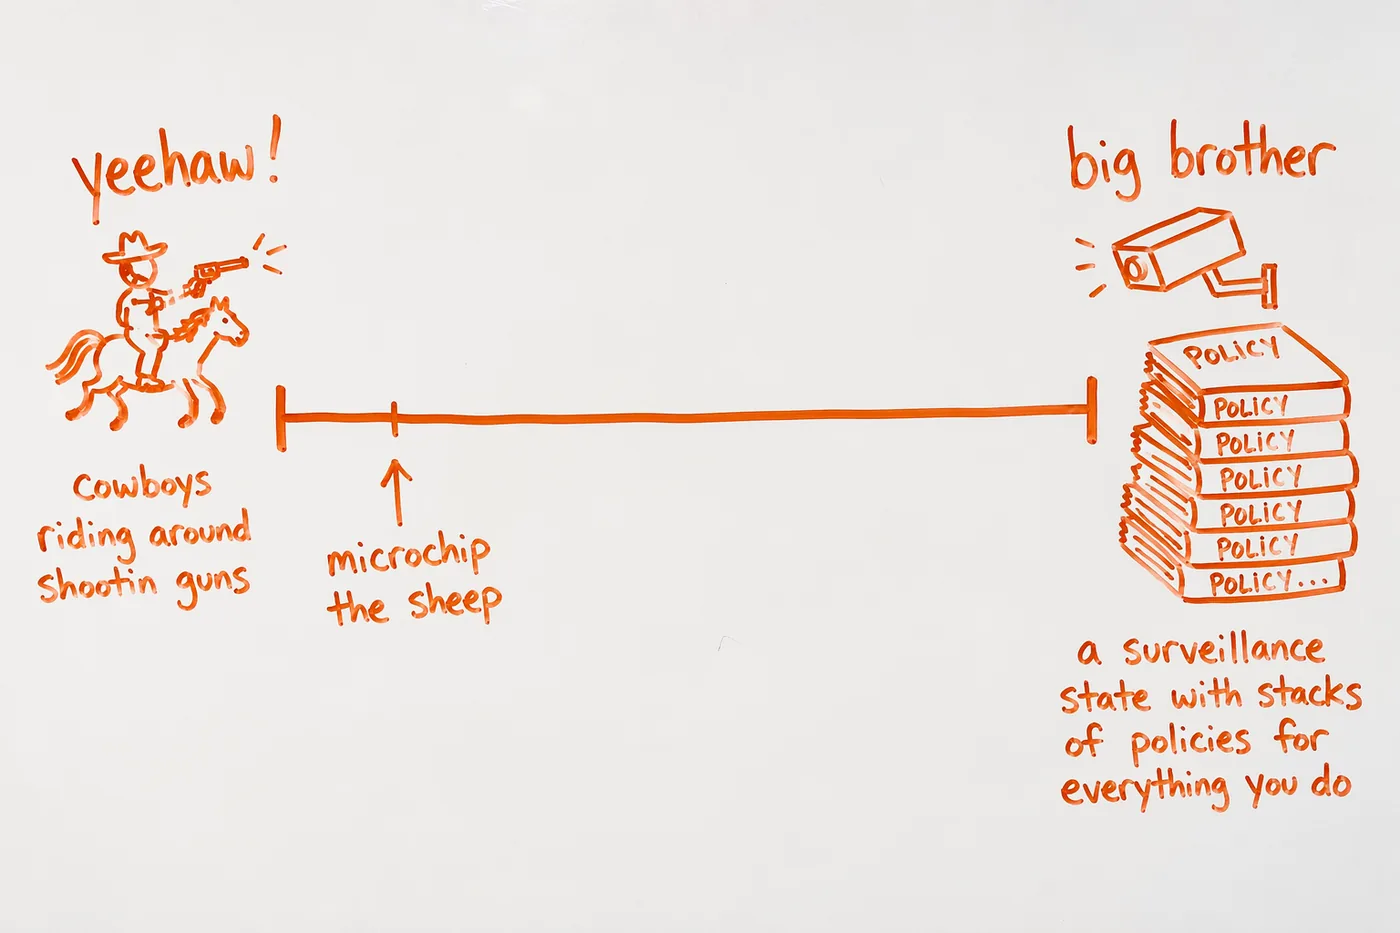
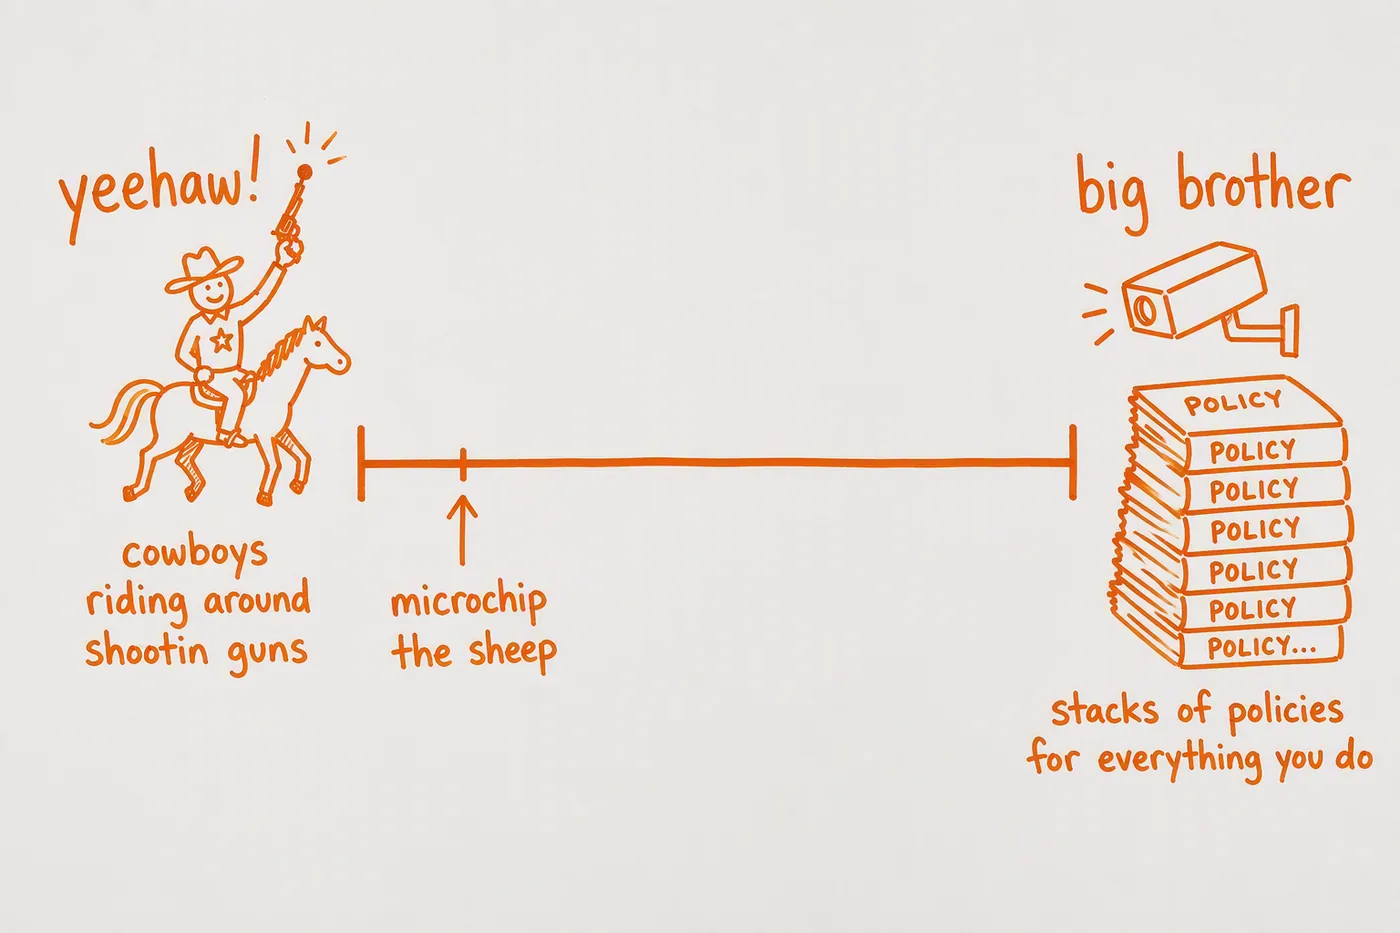
Patterns: swap in the cleaner redrawn whiteboard photo
Replace microchip.webp with a converted WebP of the new microchipping_sheep.png
(cleaner linework, caption "stacks of policies for everything you do"). Keep the
same filename/reference; update the img alt text to match; drop the source PNG
(kept in git history).

Claude-Session: https://claude.ai/code/session_011zKvT6uNayxNF6LyM9A75Q

Changed region(s): [[0.0307, 0.1243, 0.9829, 0.8703]]

diff --git a/patterns.html b/patterns.html
@@ -259,7 +259,7 @@
       <span class="section-tag">the metaphor I use</span>
     </div>
     <figure class="wb-photo">
-      <img src="microchip.webp" alt="A whiteboard drawn in orange marker: a horizontal line running from 'yeehaw!' on the left — a cowboy on horseback firing pistols, labeled 'cowboys riding around shootin guns' — to 'big brother' on the right, a surveillance camera above a stack of books each labeled POLICY, captioned 'a surveillance state with stacks of policies for everything you do.' An arrow points to a mark near the left end labeled 'microchip the sheep.'" loading="lazy" />
+      <img src="microchip.webp" alt="A whiteboard drawn in orange marker: a horizontal line running from 'yeehaw!' on the left — a cowboy on horseback firing a pistol, labeled 'cowboys riding around shootin guns' — to 'big brother' on the right, a surveillance camera above a stack of books each labeled POLICY, captioned 'stacks of policies for everything you do.' An arrow points to a mark near the left end labeled 'microchip the sheep.'" loading="lazy" />
     </figure>
     <p class="cbb-text">Every org I walk into sits somewhere on this line, usually way over at the <strong>YEEHAW</strong> end — cowboys on horseback with their guns out, which is roughly where ops teams like to live. A good part of my job is nudging the marker one step toward the middle, while reassuring everyone I have zero interest in the other end. I'm not building a surveillance state. I just want to <strong>microchip the sheep</strong>.</p>
   </section>
